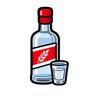
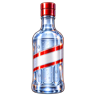
Refresh badges and add Black BMW milestone

Changed region(s): [[0.2812, 0.0, 0.7188, 1.0]]

diff --git a/tests/engine.test.js b/tests/engine.test.js
@@ -24,7 +24,8 @@ function badges() {
 		{ key: 'beer', threshold: 5, label: 'Beer badge', description: 'You earned the Beer badge for seeing 5 posts.', alt: 'Cute beer badge', url: 'https://example.com/badges/beer.png' },
 		{ key: 'vodka', threshold: 10, label: 'Vodka badge', description: 'You earned the Vodka badge for seeing 10 posts.', alt: 'Vodka bottle badge', url: 'https://example.com/badges/vodka.png' },
 		{ key: 'tracksuit', threshold: 20, label: 'Tracksuit badge', description: 'You earned the Tracksuit badge for seeing 20 posts.', alt: 'Black tracksuit badge', url: 'https://example.com/badges/adidas.png' },
-		{ key: 'gopnik', threshold: 50, label: 'Gopnik badge', description: 'You earned the Gopnik badge for seeing 50 posts.', alt: 'Gopnik character badge', url: 'https://example.com/badges/gopnik.png' }
+		{ key: 'gopnik', threshold: 50, label: 'Gopnik badge', description: 'You earned the Gopnik badge for seeing 50 posts.', alt: 'Gopnik character badge', url: 'https://example.com/badges/gopnik.png' },
+		{ key: 'bmw', threshold: 100, label: 'Black BMW badge', description: 'You earned the Black BMW badge for seeing 100 posts.', alt: 'Black BMW badge', url: 'https://example.com/badges/bmw.png' }
 	];
 }
 
@@ -280,22 +281,36 @@ test('unlocks the beer milestone beside Seen with a brief, explained achievement
 	assert.equal(window.document.querySelector('.wp-seen-posts-unlock-toast').textContent.includes('Achievement unlocked!'), true);
 });
 
-test('accumulates all earned milestones and keeps Seen beside the highest badge on cards', async () => {
+test('accumulates earned milestones and keeps Seen beside the highest badge on cards', async () => {
 	const now = Math.floor(Date.now() / 1000);
-	const history = Object.fromEntries(Array.from({ length: 50 }, (_, index) => [String(index + 1), now]));
+	const history = Object.fromEntries(Array.from({ length: 100 }, (_, index) => [String(index + 1), now]));
 	const { window } = await boot(history);
 	const achievements = window.document.querySelector('.wp-seen-posts-achievements');
-	assert.deepEqual([...achievements.querySelectorAll('.wp-seen-posts-achievement')].map((item) => item.dataset.badgeKey), ['beer', 'vodka', 'tracksuit', 'gopnik']);
-	assert.equal(achievements.querySelectorAll('img').length, 4);
+	assert.deepEqual([...achievements.querySelectorAll('.wp-seen-posts-achievement')].map((item) => item.dataset.badgeKey), ['beer', 'vodka', 'tracksuit', 'gopnik', 'bmw']);
+	assert.equal(achievements.querySelectorAll('img').length, 5);
 	window.document.querySelectorAll('.wp-seen-posts-badge').forEach((badge) => {
 		assert.equal(badge.querySelector('.wp-seen-posts-badge-text').textContent, 'Seen');
-		assert.equal(badge.getAttribute('aria-label'), 'Seen. You earned the Gopnik badge for seeing 50 posts.');
-		assert.equal(badge.querySelector('img').src, 'https://example.com/badges/gopnik.png');
+		assert.equal(badge.getAttribute('aria-label'), 'Seen. You earned the Black BMW badge for seeing 100 posts.');
+		assert.equal(badge.querySelector('img').src, 'https://example.com/badges/bmw.png');
 	});
 	window.document.querySelector('.wp-seen-posts-reset').click();
 	assert.equal(achievements.hidden, true);
 	assert.equal(achievements.querySelector('.wp-seen-posts-achievements-list').children.length, 0);
 	assert.equal(window.document.querySelectorAll('.wp-seen-posts-badge').length, 0);
+});
+
+test('unlocks the 100-post Black BMW milestone with animation and toast', async () => {
+	const now = Math.floor(Date.now() / 1000);
+	const history = Object.fromEntries(Array.from({ length: 99 }, (_, index) => [String(index + 1), now]));
+	const { window, observer } = await boot(history, { postCount: 100 });
+	const hundredth = window.document.querySelector('#prologue-100');
+	observer.trigger(hundredth, 0.5);
+	await new Promise((resolve) => window.setTimeout(resolve, 10));
+	const bmw = window.document.querySelector('.wp-seen-posts-achievement[data-badge-key="bmw"]');
+	assert.equal(bmw.classList.contains('wp-seen-posts-achievement-unlocked'), true);
+	assert.equal(bmw.querySelector('img').src, 'https://example.com/badges/bmw.png');
+	assert.equal(window.document.querySelector('.wp-seen-posts-unlock-toast').textContent.includes('Black BMW badge'), true);
+	assert.equal(hundredth.querySelector('.wp-seen-posts-badge img').src, 'https://example.com/badges/bmw.png');
 });
 
 test('initializes only supplied infinite-scroll posts without advancing while visible content remains', async () => {

diff --git a/tests/single-post.test.js b/tests/single-post.test.js
@@ -39,7 +39,10 @@ async function bootSingle(history = {}, options = {}) {
 		retentionDays: 365,
 		badges: [
 			{ key: 'beer', threshold: 5, label: 'Beer badge', description: 'You earned the Beer badge for seeing 5 posts.', alt: 'Cute beer badge', url: 'https://example.com/beer.png' },
-			{ key: 'vodka', threshold: 10, label: 'Vodka badge', description: 'You earned the Vodka badge for seeing 10 posts.', alt: 'Vodka bottle badge', url: 'https://example.com/vodka.png' }
+			{ key: 'vodka', threshold: 10, label: 'Vodka badge', description: 'You earned the Vodka badge for seeing 10 posts.', alt: 'Vodka bottle badge', url: 'https://example.com/vodka.png' },
+			{ key: 'tracksuit', threshold: 20, label: 'Tracksuit badge', description: 'You earned the Tracksuit badge for seeing 20 posts.', alt: 'Black tracksuit badge', url: 'https://example.com/adidas.png' },
+			{ key: 'gopnik', threshold: 50, label: 'Gopnik badge', description: 'You earned the Gopnik badge for seeing 50 posts.', alt: 'Gopnik character badge', url: 'https://example.com/gopnik.png' },
+			{ key: 'bmw', threshold: 100, label: 'Black BMW badge', description: 'You earned the Black BMW badge for seeing 100 posts.', alt: 'Black BMW badge', url: 'https://example.com/bmw.png' }
 		],
 		i18n: {
 			seen: 'Seen', achievements: 'Your badges', badgeHint: 'Tap a badge to see why you earned it.',
@@ -142,4 +145,16 @@ test('shows earned badges on a single post and explains a newly unlocked milesto
 	assert.equal(status.querySelector('.wp-seen-posts-achievement-tooltip').textContent, 'You earned the Beer badge for seeing 5 posts.');
 	assert.equal(window.document.querySelector('.wp-seen-posts-unlock-toast').textContent.includes('Achievement unlocked!'), true);
 	assert.equal(recordedDetail().unlocked, 'beer');
+});
+
+test('unlocks and animates the Black BMW badge on a 100th direct post', async () => {
+	const now = Math.floor(Date.now() / 1000);
+	const history = Object.fromEntries(Array.from({ length: 99 }, (_, index) => [String(index + 100), now]));
+	const { window, recordedDetail } = await bootSingle(history);
+	await new Promise((resolve) => window.setTimeout(resolve, 12));
+	const bmw = window.document.querySelector('.wp-seen-posts-achievement[data-badge-key="bmw"]');
+	assert.equal(recordedDetail().unlocked, 'bmw');
+	assert.equal(bmw.classList.contains('wp-seen-posts-achievement-unlocked'), true);
+	assert.equal(bmw.querySelector('img').src, 'https://example.com/bmw.png');
+	assert.equal(window.document.querySelector('.wp-seen-posts-unlock-toast').textContent.includes('Black BMW badge'), true);
 });

diff --git a/wp-seen-posts.php b/wp-seen-posts.php
@@ -3,7 +3,7 @@
  * Plugin Name:       WP Seen Posts
  * Plugin URI:        https://github.com/ilyavish/wp-seen-posts
  * Description:       Tracks posts viewed in archive feeds, hides previously seen posts on later visits, and integrates with progressive infinite scrolling.
- * Version:           1.0.17
+ * Version:           1.0.18
  * Requires at least: 6.0
  * Requires PHP:      7.4
  * Author:            holdmyvodka.com
@@ -18,7 +18,7 @@ if ( ! defined( 'ABSPATH' ) ) {
 	exit;
 }
 
-const VERSION = '1.0.17';
+const VERSION = '1.0.18';
 const OPTION  = 'wp_seen_posts_selectors';
 
 require_once __DIR__ . '/includes/class-settings.php';
@@ -67,6 +67,15 @@ function history_limits(): array {
 	);
 }
 
+/** Return a locally bundled, versioned badge URL for long-lived browser caching. */
+function badge_asset_url( string $filename ): string {
+	return add_query_arg(
+		'ver',
+		VERSION,
+		plugins_url( 'assets/images/badges/' . ltrim( $filename, '/' ), __FILE__ )
+	);
+}
+
 /**
  * Return the lightweight local milestone artwork and thresholds.
  *
@@ -80,7 +89,7 @@ function achievement_badges(): array {
 			'label'       => __( 'Beer badge', 'wp-seen-posts' ),
 			'description' => __( 'You earned the Beer badge for seeing 5 posts.', 'wp-seen-posts' ),
 			'alt'         => __( 'Cute beer badge earned after 5 Seen posts', 'wp-seen-posts' ),
-			'url'         => plugins_url( 'assets/images/badges/beer.png', __FILE__ ),
+			'url'         => badge_asset_url( 'beer.png' ),
 		),
 		array(
 			'key'         => 'vodka',
@@ -88,7 +97,7 @@ function achievement_badges(): array {
 			'label'       => __( 'Vodka badge', 'wp-seen-posts' ),
 			'description' => __( 'You earned the Vodka badge for seeing 10 posts.', 'wp-seen-posts' ),
 			'alt'         => __( 'Vodka bottle badge earned after 10 Seen posts', 'wp-seen-posts' ),
-			'url'         => plugins_url( 'assets/images/badges/vodka.png', __FILE__ ),
+			'url'         => badge_asset_url( 'vodka.png' ),
 		),
 		array(
 			'key'         => 'tracksuit',
@@ -96,7 +105,7 @@ function achievement_badges(): array {
 			'label'       => __( 'Tracksuit badge', 'wp-seen-posts' ),
 			'description' => __( 'You earned the Tracksuit badge for seeing 20 posts.', 'wp-seen-posts' ),
 			'alt'         => __( 'Black tracksuit badge earned after 20 Seen posts', 'wp-seen-posts' ),
-			'url'         => plugins_url( 'assets/images/badges/adidas.png', __FILE__ ),
+			'url'         => badge_asset_url( 'adidas.png' ),
 		),
 		array(
 			'key'         => 'gopnik',
@@ -104,7 +113,15 @@ function achievement_badges(): array {
 			'label'       => __( 'Gopnik badge', 'wp-seen-posts' ),
 			'description' => __( 'You earned the Gopnik badge for seeing 50 posts.', 'wp-seen-posts' ),
 			'alt'         => __( 'Gopnik character badge earned after 50 Seen posts', 'wp-seen-posts' ),
-			'url'         => plugins_url( 'assets/images/badges/gopnik.png', __FILE__ ),
+			'url'         => badge_asset_url( 'gopnik.png' ),
+		),
+		array(
+			'key'         => 'bmw',
+			'threshold'   => 100,
+			'label'       => __( 'Black BMW badge', 'wp-seen-posts' ),
+			'description' => __( 'You earned the Black BMW badge for seeing 100 posts.', 'wp-seen-posts' ),
+			'alt'         => __( 'Black BMW badge earned after 100 Seen posts', 'wp-seen-posts' ),
+			'url'         => badge_asset_url( 'bmw.png' ),
 		),
 	);
 }

diff --git a/README.md b/README.md
@@ -16,9 +16,10 @@ A lightweight WordPress plugin that gives archive feeds local Seen/Unseen state.
 - During an automatic advance with no preview available, a compact “Loading unseen posts…” status appears instead of an unexplained empty feed.
 - If a reload would otherwise contain no visible cards, two recent Seen cards remain as a stable preview while unseen pages load, avoiding both blank waits and live removal.
 - The small Seen badge is anchored to the bottom-right corner of its post card and keeps the Seen word visible beside the visitor's highest earned badge.
-- At 5, 10, 20, and 50 unique Seen posts, visitors accumulate beer, vodka, tracksuit, and gopnik achievement icons in a light badge shelf aligned opposite the feed buttons.
+- At 5, 10, 20, 50, and 100 unique Seen posts, visitors accumulate beer, vodka, tracksuit, gopnik, and Black BMW achievement icons in a light badge shelf aligned opposite the feed buttons.
 - Badge images have descriptive alternative text. Desktop hover/focus and mobile taps show a custom explanation below the badge so P2 and Safari cannot clip it above the feed.
 - A newly unlocked milestone gets one short badge-pop animation and a compact explanatory toast, with motion disabled when the visitor requests reduced motion.
+- Redesigned badge artwork is bundled locally at a maximum 96 px, loaded only when earned, and uses versioned URLs so browsers cache it while plugin upgrades reliably refresh it.
 - On the next page load, previously Seen cards start hidden and can be revealed; the two-card preview is used only when hiding everything would leave the feed empty.
 - Individual blog posts opened directly are recorded after one visible second and visibly show Seen plus earned badges inside the detected views row, right-aligned across from the view count and before newsletters or comments; WordPress pages are never tracked by default.
 - Anonymous state is stored as `{ postId: unixTimestamp }` in `wp_seen_posts_v1`.
